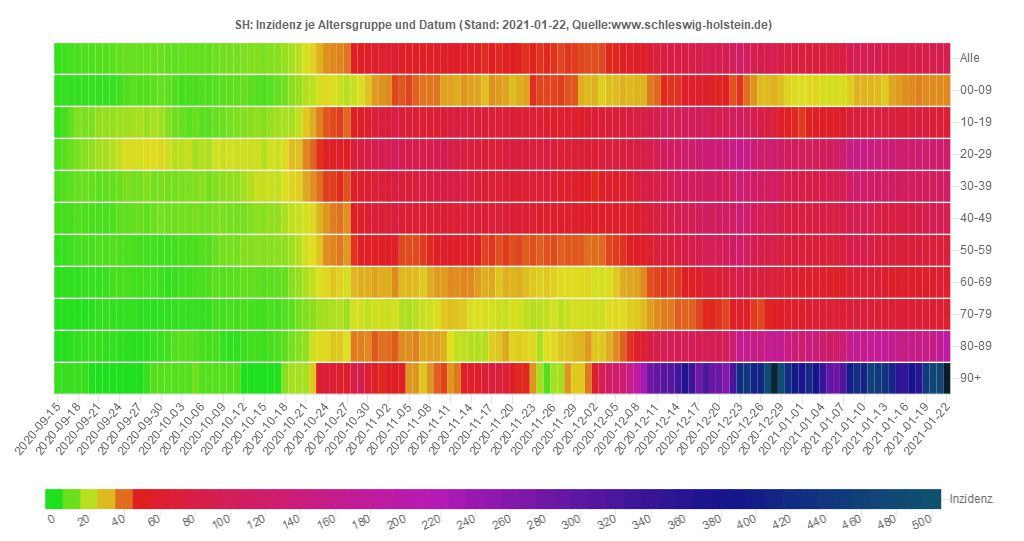
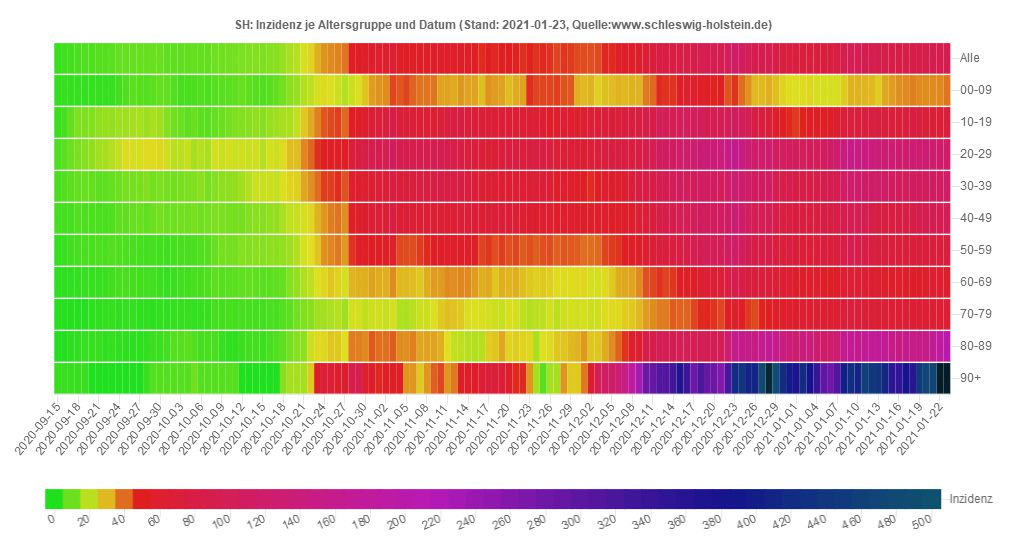
23.01.2021 20:33:10,28

diff --git a/sh/Data_SH.js b/sh/Data_SH.js
@@ -1,20 +1,20 @@
 var chdata={
-labels: ["2020-09-22","2020-09-23","2020-09-24","2020-09-25","2020-09-26","2020-09-27","2020-09-28","2020-09-29","2020-09-30","2020-10-01","2020-10-02","2020-10-03","2020-10-04","2020-10-05","2020-10-06","2020-10-07","2020-10-08","2020-10-09","2020-10-10","2020-10-11","2020-10-12","2020-10-13","2020-10-14","2020-10-15","2020-10-16","2020-10-17","2020-10-18","2020-10-19","2020-10-20","2020-10-21","2020-10-22","2020-10-23","2020-10-24","2020-10-25","2020-10-26","2020-10-27","2020-10-28","2020-10-29","2020-10-30","2020-10-31","2020-11-01","2020-11-02","2020-11-03","2020-11-04","2020-11-05","2020-11-06","2020-11-07","2020-11-08","2020-11-09","2020-11-10","2020-11-11","2020-11-12","2020-11-13","2020-11-14","2020-11-15","2020-11-16","2020-11-17","2020-11-18","2020-11-19","2020-11-20","2020-11-21","2020-11-22","2020-11-23","2020-11-24","2020-11-25","2020-11-26","2020-11-27","2020-11-28","2020-11-29","2020-11-30","2020-12-01","2020-12-02","2020-12-03","2020-12-04","2020-12-05","2020-12-06","2020-12-07","2020-12-08","2020-12-09","2020-12-10","2020-12-11","2020-12-12","2020-12-13","2020-12-14","2020-12-15","2020-12-16","2020-12-17","2020-12-18","2020-12-19","2020-12-20","2020-12-21","2020-12-22","2020-12-23","2020-12-24","2020-12-25","2020-12-26","2020-12-27","2020-12-28","2020-12-29","2020-12-30","2020-12-31","2021-01-01","2021-01-02","2021-01-03","2021-01-04","2021-01-05","2021-01-06","2021-01-07","2021-01-08","2021-01-09","2021-01-10","2021-01-11","2021-01-12","2021-01-13","2021-01-14","2021-01-15","2021-01-16","2021-01-17","2021-01-18","2021-01-19","2021-01-20","2021-01-21","2021-01-22"],
+labels: ["2020-09-22","2020-09-23","2020-09-24","2020-09-25","2020-09-26","2020-09-27","2020-09-28","2020-09-29","2020-09-30","2020-10-01","2020-10-02","2020-10-03","2020-10-04","2020-10-05","2020-10-06","2020-10-07","2020-10-08","2020-10-09","2020-10-10","2020-10-11","2020-10-12","2020-10-13","2020-10-14","2020-10-15","2020-10-16","2020-10-17","2020-10-18","2020-10-19","2020-10-20","2020-10-21","2020-10-22","2020-10-23","2020-10-24","2020-10-25","2020-10-26","2020-10-27","2020-10-28","2020-10-29","2020-10-30","2020-10-31","2020-11-01","2020-11-02","2020-11-03","2020-11-04","2020-11-05","2020-11-06","2020-11-07","2020-11-08","2020-11-09","2020-11-10","2020-11-11","2020-11-12","2020-11-13","2020-11-14","2020-11-15","2020-11-16","2020-11-17","2020-11-18","2020-11-19","2020-11-20","2020-11-21","2020-11-22","2020-11-23","2020-11-24","2020-11-25","2020-11-26","2020-11-27","2020-11-28","2020-11-29","2020-11-30","2020-12-01","2020-12-02","2020-12-03","2020-12-04","2020-12-05","2020-12-06","2020-12-07","2020-12-08","2020-12-09","2020-12-10","2020-12-11","2020-12-12","2020-12-13","2020-12-14","2020-12-15","2020-12-16","2020-12-17","2020-12-18","2020-12-19","2020-12-20","2020-12-21","2020-12-22","2020-12-23","2020-12-24","2020-12-25","2020-12-26","2020-12-27","2020-12-28","2020-12-29","2020-12-30","2020-12-31","2021-01-01","2021-01-02","2021-01-03","2021-01-04","2021-01-05","2021-01-06","2021-01-07","2021-01-08","2021-01-09","2021-01-10","2021-01-11","2021-01-12","2021-01-13","2021-01-14","2021-01-15","2021-01-16","2021-01-17","2021-01-18","2021-01-19","2021-01-20","2021-01-21","2021-01-22","2021-01-23"],
 datasets: [
 {label: 'Fälle',
 type: 'bar',
 backgroundColor: window.chartColors.blue,
-data: [38,42,63,53,15,15,38,48,49,27,50,16,24,39,54,45,79,54,26,25,65,65,65,55,90,26,88,163,111,160,136,236,142,115,164,164,280,215,313,265,161,142,236,262,220,274,233,177,215,252,247,192,296,158,161,100,294,208,264,250,153,121,145,251,256,225,180,219,71,81,244,240,245,318,234,122,179,356,340,443,429,444,144,210,506,522,489,553,440,193,280,589,673,366,177,201,188,268,576,466,357,135,264,203,265,542,537,482,523,408,143,261,399,491,422,417,358,202,239,468,481,505,421]},
+data: [38,42,63,53,15,15,38,48,49,27,50,16,24,39,54,45,79,54,26,25,65,65,65,55,90,26,88,163,111,160,136,236,142,115,164,164,280,215,313,265,161,142,236,262,220,274,233,177,215,252,247,192,296,158,161,100,294,208,264,250,153,121,145,251,256,225,180,219,71,81,244,240,245,318,234,122,179,356,340,443,429,444,144,210,506,522,489,553,440,193,280,589,673,366,177,201,188,268,576,466,357,135,264,203,265,542,537,482,523,408,143,261,399,491,422,417,358,202,239,468,480,506,457,442]},
 {label: '7-Tg. Inzidenz',
 type: 'line',
 fill: false,
 pointBackgroundColor: 'orange',
 borderColor: 'orange',
-data: [7.2,7.9,8.7,9.4,9.3,9.2,9.1,9.4,9.7,8.4,8.3,8.4,8.7,8.7,8.9,8.8,10.6,10.7,11.1,11.1,12.0,12.4,13.1,12.2,13.5,13.5,15.6,19.0,20.6,23.9,26.7,31.7,35.7,36.6,36.6,38.5,42.6,45.3,48.0,52.2,53.8,53.0,55.5,54.9,55.1,53.7,52.6,53.2,55.7,56.2,55.7,54.8,55.5,52.9,52.4,48.4,49.9,48.5,51.0,49.4,49.2,47.9,49.4,47.9,49.6,48.2,45.8,48.1,46.4,44.2,43.9,43.4,44.1,48.8,49.3,51.1,54.5,58.3,61.8,68.6,72.4,79.7,80.4,81.5,86.6,92.9,94.5,98.8,98.6,100.3,102.7,105.6,110.8,106.6,93.6,85.4,85.2,84.8,84.3,77.2,76.9,75.5,77.6,78.1,78.0,76.9,79.3,83.6,97.0,101.9,99.9,99.7,94.8,93.2,91.2,87.5,85.8,87.8,87.1,89.4,89.1,91.9,92.1]},
+data: [7.2,7.9,8.7,9.4,9.3,9.2,9.1,9.4,9.7,8.4,8.3,8.4,8.7,8.7,8.9,8.8,10.6,10.7,11.1,11.1,12.0,12.4,13.1,12.2,13.5,13.5,15.6,19.0,20.6,23.9,26.7,31.7,35.7,36.6,36.6,38.5,42.6,45.3,48.0,52.2,53.8,53.0,55.5,54.9,55.1,53.7,52.6,53.2,55.7,56.2,55.7,54.8,55.5,52.9,52.4,48.4,49.9,48.5,51.0,49.4,49.2,47.9,49.4,47.9,49.6,48.2,45.8,48.1,46.4,44.2,43.9,43.4,44.1,48.8,49.3,51.1,54.5,58.3,61.8,68.6,72.4,79.7,80.4,81.5,86.6,92.9,94.5,98.8,98.6,100.3,102.7,105.6,110.8,106.6,93.6,85.4,85.2,84.8,84.3,77.2,76.9,75.5,77.6,78.1,78.0,76.9,79.3,83.6,97.0,101.9,99.9,99.7,94.8,93.2,91.2,87.5,85.8,87.8,87.1,89.4,89.1,91.9,93.3,96.2]},
 {label: 'Hospitalisierung',
 type: 'bar',
 backgroundColor: window.chartColors.red,
-data: [1,2,7,1,0,0,2,1,3,1,1,0,4,3,1,1,4,2,0,3,5,1,1,2,4,0,9,10,8,9,12,7,5,6,7,7,11,10,11,6,3,9,19,20,15,15,5,7,13,15,21,13,17,8,17,13,23,10,15,9,7,7,13,16,26,19,12,14,15,10,12,8,10,14,3,5,24,13,26,20,14,12,6,26,27,16,20,18,8,13,13,43,35,23,17,21,26,25,46,33,33,20,34,32,51,58,35,46,34,30,22,45,69,51,59,52,32,37,36,51,53,47,34]},
+data: [1,2,7,1,0,0,2,1,3,1,1,0,4,3,1,1,4,2,0,3,5,1,1,2,4,0,9,10,8,9,12,7,5,6,7,7,11,10,11,6,3,9,19,20,15,15,5,7,13,15,21,13,17,8,17,13,23,10,15,9,7,7,13,16,26,19,12,14,15,10,12,8,10,14,3,5,24,13,26,20,14,12,6,26,27,16,20,18,8,13,13,43,35,23,17,21,26,25,46,33,33,20,34,32,51,58,35,46,34,30,22,45,69,51,59,52,32,37,36,51,53,47,34,33]},
 {label: 'Hosp. (∑ 14-Tg.)',
 type: 'line',
 fill: false,
@@ -22,17 +22,17 @@ hidden: true,
 borderColor: 'rgba(0,255,0,0.5)',
 borderWidth: 1.5,
 pointRadius: 0,
-data: [12,12,20,22,22,22,22,23,23,21,22,21,24,26,26,25,22,23,23,26,29,29,27,28,31,31,36,43,50,58,66,71,76,79,81,87,97,105,112,118,112,111,122,133,136,144,144,145,151,159,169,172,178,180,194,198,202,192,192,186,188,188,188,189,194,200,195,201,199,196,185,183,178,183,179,177,188,185,185,186,188,186,177,193,208,216,226,230,235,243,232,262,271,274,277,286,306,305,324,341,354,356,382,401,439,454,454,477,494,503,499,519,542,560,586,618,616,621,606,599,617,618,618]},
+data: [12,12,20,22,22,22,22,23,23,21,22,21,24,26,26,25,22,23,23,26,29,29,27,28,31,31,36,43,50,58,66,71,76,79,81,87,97,105,112,118,112,111,122,133,136,144,144,145,151,159,169,172,178,180,194,198,202,192,192,186,188,188,188,189,194,200,195,201,199,196,185,183,178,183,179,177,188,185,185,186,188,186,177,193,208,216,226,230,235,243,232,262,271,274,277,286,306,305,324,341,354,356,382,401,439,454,454,477,494,503,499,519,542,560,586,618,616,621,606,599,617,618,618,621]},
 {label: 'Aktuell im Krankenhaus',
 type: 'line',
 fill: false,
 pointBackgroundColor: 'green',
 borderColor: 'green',
-data: [6,6,6,6,6,6,6,11,11,11,11,14,14,15,15,14,14,14,13,13,18,18,18,21,24,24,24,24,31,31,31,31,51,51,58,58,58,58,58,58,58,94,110,114,119,118,124,120,126,116,113,119,112,116,116,148,145,151,141,141,141,141,155,142,122,113,118,118,118,124,114,110,109,114,114,114,131,122,128,132,133,133,133,177,181,194,201,212,236,250,275,271,267,262,262,262,262,309,318,322,346,346,376,376,390,412,376,379,364,364,364,384,362,373,382,398,426,473,454,457,457,438,447]},
+data: [6,6,6,6,6,6,6,11,11,11,11,14,14,15,15,14,14,14,13,13,18,18,18,21,24,24,24,24,31,31,31,31,51,51,58,58,58,58,58,58,58,94,110,114,119,118,124,120,126,116,113,119,112,116,116,148,145,151,141,141,141,141,155,142,122,113,118,118,118,124,114,110,109,114,114,114,131,122,128,132,133,133,133,177,181,194,201,212,236,250,275,271,267,262,262,262,262,309,318,322,346,346,376,376,390,412,376,379,364,364,364,384,362,373,382,398,426,473,454,457,457,438,447,461]},
 {label: 'Todesfälle',
 type: 'bar',
 backgroundColor: 'black',
-data: [0,0,0,0,0,0,0,1,0,0,0,0,0,0,0,0,0,0,0,0,0,1,0,0,0,0,0,0,0,0,1,0,0,3,0,0,3,4,1,0,2,6,7,2,2,6,0,1,4,3,5,0,5,1,3,5,0,2,2,2,1,0,3,4,1,3,3,1,4,2,3,1,4,1,0,1,4,2,5,7,7,1,2,2,6,7,11,3,2,0,9,15,4,3,4,7,10,18,17,14,2,9,7,3,29,22,17,6,14,11,9,15,25,15,15,24,3,1,23,16,16,18,16]},
+data: [0,0,0,0,0,0,0,1,0,0,0,0,0,0,0,0,0,0,0,0,0,1,0,0,0,0,0,0,0,0,1,0,0,3,0,0,3,4,1,0,2,6,7,2,2,6,0,1,4,3,5,0,5,1,3,5,0,2,2,2,1,0,3,4,1,3,3,1,4,2,3,1,4,1,0,1,4,2,5,7,7,1,2,2,6,7,11,3,2,0,9,15,4,3,4,7,10,18,17,14,2,9,7,3,29,22,17,6,14,11,9,15,25,15,15,24,3,1,23,16,16,18,16,3]},
 {label: 'Todesfälle je Woche',
 type: 'line',
 fill: false,
@@ -41,6 +41,6 @@ borderColor: 'rgba(128,128,128,1)',
 borderWidth: 2,
 pointRadius: 2,
 yAxisID: 'first-y-axis',
-data: [,,,,,0,,,,,,,1,,,,,,,0,,,,,,,1,,,,,,,4,,,,,,,10,,,,,,,24,,,,,,,21,,,,,,,12,,,,,,,19,,,,,,,12,,,,,,,28,,,,,,,31,,,,,,,52,,,,,,,70,,,,,,,108,,,,,,,98,,,,,]},
+data: [,,,,,0,,,,,,,1,,,,,,,0,,,,,,,1,,,,,,,4,,,,,,,10,,,,,,,24,,,,,,,21,,,,,,,12,,,,,,,19,,,,,,,12,,,,,,,28,,,,,,,31,,,,,,,52,,,,,,,70,,,,,,,108,,,,,,,98,,,,,,]},
 ]};
 

diff --git a/sh/Kreis_PI.js b/sh/Kreis_PI.js
@@ -1,23 +1,23 @@
 var chdata={
-labels: ["2020-09-22","2020-09-23","2020-09-24","2020-09-25","2020-09-26","2020-09-27","2020-09-28","2020-09-29","2020-09-30","2020-10-01","2020-10-02","2020-10-03","2020-10-04","2020-10-05","2020-10-06","2020-10-07","2020-10-08","2020-10-09","2020-10-10","2020-10-11","2020-10-12","2020-10-13","2020-10-14","2020-10-15","2020-10-16","2020-10-17","2020-10-18","2020-10-19","2020-10-20","2020-10-21","2020-10-22","2020-10-23","2020-10-24","2020-10-25","2020-10-26","2020-10-27","2020-10-28","2020-10-29","2020-10-30","2020-10-31","2020-11-01","2020-11-02","2020-11-03","2020-11-04","2020-11-05","2020-11-06","2020-11-07","2020-11-08","2020-11-09","2020-11-10","2020-11-11","2020-11-12","2020-11-13","2020-11-14","2020-11-15","2020-11-16","2020-11-17","2020-11-18","2020-11-19","2020-11-20","2020-11-21","2020-11-22","2020-11-23","2020-11-24","2020-11-25","2020-11-26","2020-11-27","2020-11-28","2020-11-29","2020-11-30","2020-12-01","2020-12-02","2020-12-03","2020-12-04","2020-12-05","2020-12-06","2020-12-07","2020-12-08","2020-12-09","2020-12-10","2020-12-11","2020-12-12","2020-12-13","2020-12-14","2020-12-15","2020-12-16","2020-12-17","2020-12-18","2020-12-19","2020-12-20","2020-12-21","2020-12-22","2020-12-23","2020-12-24","2020-12-25","2020-12-26","2020-12-27","2020-12-28","2020-12-29","2020-12-30","2020-12-31","2021-01-01","2021-01-02","2021-01-03","2021-01-04","2021-01-05","2021-01-06","2021-01-07","2021-01-08","2021-01-09","2021-01-10","2021-01-11","2021-01-12","2021-01-13","2021-01-14","2021-01-15","2021-01-16","2021-01-17","2021-01-18","2021-01-19","2021-01-20","2021-01-21","2021-01-22"],
+labels: ["2020-09-22","2020-09-23","2020-09-24","2020-09-25","2020-09-26","2020-09-27","2020-09-28","2020-09-29","2020-09-30","2020-10-01","2020-10-02","2020-10-03","2020-10-04","2020-10-05","2020-10-06","2020-10-07","2020-10-08","2020-10-09","2020-10-10","2020-10-11","2020-10-12","2020-10-13","2020-10-14","2020-10-15","2020-10-16","2020-10-17","2020-10-18","2020-10-19","2020-10-20","2020-10-21","2020-10-22","2020-10-23","2020-10-24","2020-10-25","2020-10-26","2020-10-27","2020-10-28","2020-10-29","2020-10-30","2020-10-31","2020-11-01","2020-11-02","2020-11-03","2020-11-04","2020-11-05","2020-11-06","2020-11-07","2020-11-08","2020-11-09","2020-11-10","2020-11-11","2020-11-12","2020-11-13","2020-11-14","2020-11-15","2020-11-16","2020-11-17","2020-11-18","2020-11-19","2020-11-20","2020-11-21","2020-11-22","2020-11-23","2020-11-24","2020-11-25","2020-11-26","2020-11-27","2020-11-28","2020-11-29","2020-11-30","2020-12-01","2020-12-02","2020-12-03","2020-12-04","2020-12-05","2020-12-06","2020-12-07","2020-12-08","2020-12-09","2020-12-10","2020-12-11","2020-12-12","2020-12-13","2020-12-14","2020-12-15","2020-12-16","2020-12-17","2020-12-18","2020-12-19","2020-12-20","2020-12-21","2020-12-22","2020-12-23","2020-12-24","2020-12-25","2020-12-26","2020-12-27","2020-12-28","2020-12-29","2020-12-30","2020-12-31","2021-01-01","2021-01-02","2021-01-03","2021-01-04","2021-01-05","2021-01-06","2021-01-07","2021-01-08","2021-01-09","2021-01-10","2021-01-11","2021-01-12","2021-01-13","2021-01-14","2021-01-15","2021-01-16","2021-01-17","2021-01-18","2021-01-19","2021-01-20","2021-01-21","2021-01-22","2021-01-23"],
 datasets: [
 {label: 'Fälle',
 type: 'bar',
 backgroundColor: window.chartColors.blue,
 yAxisID: 'first-y-axis',
-data: [7,7,2,17,0,9,3,8,10,6,6,7,4,2,7,6,7,4,8,3,11,12,17,9,3,0,36,10,12,34,0,73,34,8,10,0,27,36,60,67,0,32,26,49,42,43,45,24,7,36,47,34,28,43,18,0,51,51,49,47,42,31,55,50,68,43,0,73,18,32,47,59,40,42,0,12,34,75,37,98,53,92,19,17,79,62,92,53,113,32,41,100,121,58,56,49,20,47,118,116,82,15,36,25,28,104,77,62,132,69,38,32,93,133,71,71,70,38,50,102,93,143,101]},
+data: [7,7,2,17,0,9,3,8,10,6,6,7,4,2,7,6,7,4,8,3,11,12,17,9,3,0,36,10,12,34,0,73,34,8,10,0,27,36,60,67,0,32,26,49,42,43,45,24,7,36,47,34,28,43,18,0,51,51,49,47,42,31,55,50,68,43,0,73,18,32,47,59,40,42,0,12,34,75,37,98,53,92,19,17,79,62,92,53,113,32,41,100,121,58,56,49,20,47,118,116,82,15,36,25,28,104,77,62,132,69,38,32,93,133,71,71,70,38,50,102,92,143,105,109]},
 {label: '7-Tg. Inzidenz',
 type: 'line',
 fill: false,
 pointBackgroundColor: 'orange',
 borderColor: 'orange',
 yAxisID: 'first-y-axis',
-data: [10.4,12.0,11.4,14.5,12.0104175,14.2,14.2,14.5,15.5,16.8,13.3,15.5,13.9,13.6,13.3,12.0,12.3,11.7,12.0,11.7,14.5,16.1,19.6,20.2,19.9,17.383499,27.8,27.5,27.5,32.9,30.0260436,52.2,62.9,54.0,54.0,50.2541151,48.0,59.4,55.3,65.7,63.2127235,70.2,78.4,85.3,87.2,81.9,74.9,82.5,74.6,77.8,77.1,74.6,69.9,69.2,67.3,65.1091052,69.9,71.1,75.9,81.9,81.5,85.7,103.0,102.7,108.1,106.2,91.3423854,101.1,97.0,89.8,88.8,86.0,85.0,98.3,75.2231409,73.3,74.0,82.8,75.9,94.2,97.7,126.7,129.0,123.6,124.8,132.7,130.9,130.9,137.5,141.6,149.2,155.8,174.5,163.7,164.7,144.4,140.6,142.5,148.2,146.7,154.2,141.3,137.2,138.8,132.7,128.3,116.0,109.7,146.7,157.1,161.2,162.5,159.0,176.7,179.5,160.2,160.6,160.6,166.2,169.1,156.5,179.2,188.9]},
+data: [10.4,12.0,11.4,14.5,12.0104175,14.2,14.2,14.5,15.5,16.8,13.3,15.5,13.9,13.6,13.3,12.0,12.3,11.7,12.0,11.7,14.5,16.1,19.6,20.2,19.9,17.383499,27.8,27.5,27.5,32.9,30.0260436,52.2,62.9,54.0,54.0,50.2541151,48.0,59.4,55.3,65.7,63.2127235,70.2,78.4,85.3,87.2,81.9,74.9,82.5,74.6,77.8,77.1,74.6,69.9,69.2,67.3,65.1091052,69.9,71.1,75.9,81.9,81.5,85.7,103.0,102.7,108.1,106.2,91.3423854,101.1,97.0,89.8,88.8,86.0,85.0,98.3,75.2231409,73.3,74.0,82.8,75.9,94.2,97.7,126.7,129.0,123.6,124.8,132.7,130.9,130.9,137.5,141.6,149.2,155.8,174.5,163.7,164.7,144.4,140.6,142.5,148.2,146.7,154.2,141.3,137.2,138.8,132.7,128.3,116.0,109.7,146.7,157.1,161.2,162.5,159.0,176.7,179.5,160.2,160.6,160.6,166.2,169.1,156.1,178.9,189.6,202.1]},
 {label: 'Hospitalisierung',
 type: 'bar',
 backgroundColor: window.chartColors.red,
 yAxisID: 'first-y-axis',
-data: [0,0,0,0,0,0,1,1,0,0,0,0,1,1,1,-1,2,0,0,0,0,0,0,0,0,0,3,2,0,1,0,5,0,1,1,0,1,2,5,2,0,2,1,2,5,3,0,0,3,4,2,3,3,1,1,0,6,1,2,2,2,0,1,2,6,4,0,6,4,4,3,3,2,5,0,2,4,1,6,7,4,1,0,9,5,0,7,0,0,0,0,25,8,6,2,3,3,5,15,9,4,6,10,3,4,8,13,13,6,3,4,0,26,12,8,7,6,2,2,13,7,11,12]},
+data: [0,0,0,0,0,0,1,1,0,0,0,0,1,1,1,-1,2,0,0,0,0,0,0,0,0,0,3,2,0,1,0,5,0,1,1,0,1,2,5,2,0,2,1,2,5,3,0,0,3,4,2,3,3,1,1,0,6,1,2,2,2,0,1,2,6,4,0,6,4,4,3,3,2,5,0,2,4,1,6,7,4,1,0,9,5,0,7,0,0,0,0,25,8,6,2,3,3,5,15,9,4,6,10,3,4,8,13,13,6,3,4,0,26,12,8,7,6,2,2,13,7,11,12,2]},
 {label: 'Hospitalisierung (∑ 14-Tg.)',
 type: 'line',
 pointRadius: 0,
@@ -25,12 +25,12 @@ fill: false,
 borderColor: 'rgba(0,128,0,0.5)',
 borderWidth: 2,
 yAxisID: 'first-y-axis',
-data: [2,2,2,2,2,2,3,4,3,2,2,2,3,4,5,4,6,6,6,6,5,4,4,4,4,4,6,7,6,8,6,11,11,12,13,13,14,16,21,23,20,20,21,22,27,25,25,24,26,30,31,32,30,29,30,28,33,32,29,28,30,30,28,26,30,31,28,33,36,40,37,39,39,42,40,42,45,44,44,47,51,46,42,47,49,46,51,46,46,44,40,64,66,65,63,65,68,64,74,83,80,86,96,99,103,86,91,98,102,102,103,98,109,112,116,117,113,112,110,115,109,107,113]},
+data: [2,2,2,2,2,2,3,4,3,2,2,2,3,4,5,4,6,6,6,6,5,4,4,4,4,4,6,7,6,8,6,11,11,12,13,13,14,16,21,23,20,20,21,22,27,25,25,24,26,30,31,32,30,29,30,28,33,32,29,28,30,30,28,26,30,31,28,33,36,40,37,39,39,42,40,42,45,44,44,47,51,46,42,47,49,46,51,46,46,44,40,64,66,65,63,65,68,64,74,83,80,86,96,99,103,86,91,98,102,102,103,98,109,112,116,117,113,112,110,115,109,107,113,112]},
 {label: 'Todesfälle',
 type: 'bar',
 backgroundColor: 'black',
 yAxisID: 'first-y-axis',
-data: [0,0,0,0,0,0,0,0,0,0,0,0,0,0,0,0,0,0,0,0,0,0,0,0,0,0,0,0,0,0,0,0,0,0,0,0,1,0,0,0,0,0,0,0,0,0,0,0,0,1,0,0,0,0,0,0,0,0,0,0,0,0,0,0,0,1,0,1,0,2,0,0,2,1,0,0,0,1,0,2,1,0,0,0,1,0,7,0,0,0,0,4,0,0,2,0,2,3,4,3,0,6,0,2,10,4,5,1,2,5,1,0,7,2,5,6,1,0,5,2,1,5,7]},
+data: [0,0,0,0,0,0,0,0,0,0,0,0,0,0,0,0,0,0,0,0,0,0,0,0,0,0,0,0,0,0,0,0,0,0,0,0,1,0,0,0,0,0,0,0,0,0,0,0,0,1,0,0,0,0,0,0,0,0,0,0,0,0,0,0,0,1,0,1,0,2,0,0,2,1,0,0,0,1,0,2,1,0,0,0,1,0,7,0,0,0,0,4,0,0,2,0,2,3,4,3,0,6,0,2,10,4,5,1,2,5,1,0,7,2,5,6,1,0,5,2,1,5,7,1]},
 {label: 'Todesfälle je Woche',
 type: 'line',
 fill: false,
@@ -39,6 +39,6 @@ borderColor: 'rgba(128,128,128,1)',
 borderWidth: 2,
 pointRadius: 2,
 yAxisID: 'first-y-axis',
-data: [,,,,,0,,,,,,,0,,,,,,,0,,,,,,,0,,,,,,,0,,,,,,,1,,,,,,,0,,,,,,,1,,,,,,,0,,,,,,,2,,,,,,,5,,,,,,,4,,,,,,,8,,,,,,,8,,,,,,,18,,,,,,,28,,,,,,,21,,,,,]},
+data: [,,,,,0,,,,,,,0,,,,,,,0,,,,,,,0,,,,,,,0,,,,,,,1,,,,,,,0,,,,,,,1,,,,,,,0,,,,,,,2,,,,,,,5,,,,,,,4,,,,,,,8,,,,,,,8,,,,,,,18,,,,,,,28,,,,,,,21,,,,,,]},
 ]};
 

diff --git a/sh/Data_SH_Alter.js b/sh/Data_SH_Alter.js
@@ -133,7 +133,8 @@ var chdata={
 				{x: '2021-01-19', y: 'Alle', v: 88.5399788, casesum: 2571},{x: '2021-01-19', y: '00-09', v: 35.8364301, casesum: 92},{x: '2021-01-19', y: '10-19', v: 76.0850268, casesum: 210},{x: '2021-01-19', y: '20-29', v: 125.014846, casesum: 400},{x: '2021-01-19', y: '30-39', v: 108.602186, casesum: 365},{x: '2021-01-19', y: '40-49', v: 92.4893538, casesum: 326},{x: '2021-01-19', y: '50-59', v: 72.4665473, casesum: 359},{x: '2021-01-19', y: '60-69', v: 58.8672187, casesum: 214},{x: '2021-01-19', y: '70-79', v: 66.9074886, casesum: 198},{x: '2021-01-19', y: '80-89', v: 155.444471, casesum: 278},{x: '2021-01-19', y: '90+', v: 447.667962, casesum: 129},
 				{x: '2021-01-20', y: 'Alle', v: 88.0578475, casesum: 2557},{x: '2021-01-20', y: '00-09', v: 35.8364301, casesum: 92},{x: '2021-01-20', y: '10-19', v: 71.0126917, casesum: 196},{x: '2021-01-20', y: '20-29', v: 127.82768, casesum: 409},{x: '2021-01-20', y: '30-39', v: 107.114485, casesum: 360},{x: '2021-01-20', y: '40-49', v: 94.4753215, casesum: 333},{x: '2021-01-20', y: '50-59', v: 72.2646906, casesum: 358},{x: '2021-01-20', y: '60-69', v: 58.3170577, casesum: 212},{x: '2021-01-20', y: '70-79', v: 63.1904059, casesum: 187},{x: '2021-01-20', y: '80-89', v: 152.648707, casesum: 273},{x: '2021-01-20', y: '90+', v: 475.430316, casesum: 137},
 				{x: '2021-01-21', y: 'Alle', v: 91.9148983, casesum: 2669},{x: '2021-01-21', y: '00-09', v: 35.8364301, casesum: 92},{x: '2021-01-21', y: '10-19', v: 69.2011434, casesum: 191},{x: '2021-01-21', y: '20-29', v: 124.389771, casesum: 398},{x: '2021-01-21', y: '30-39', v: 115.743151, casesum: 389},{x: '2021-01-21', y: '40-49', v: 99.0146763, casesum: 349},{x: '2021-01-21', y: '50-59', v: 76.5036809, casesum: 379},{x: '2021-01-21', y: '60-69', v: 62.9934256, casesum: 229},{x: '2021-01-21', y: '70-79', v: 68.259155, casesum: 202},{x: '2021-01-21', y: '80-89', v: 170.541595, casesum: 305},{x: '2021-01-21', y: '90+', v: 468.489728, casesum: 135},
-				{x: '2021-01-22', y: 'Alle', v: 90.9850736, casesum: 2642},{x: '2021-01-22', y: '00-09', v: 36.2259565, casesum: 93},{x: '2021-01-22', y: '10-19', v: 68.1142145, casesum: 188},{x: '2021-01-22', y: '20-29', v: 119.389177, casesum: 382},{x: '2021-01-22', y: '30-39', v: 111.875128, casesum: 376},{x: '2021-01-22', y: '40-49', v: 93.9079022, casesum: 331},{x: '2021-01-22', y: '50-59', v: 74.8888274, casesum: 371},{x: '2021-01-22', y: '60-69', v: 60.5177014, casesum: 220},{x: '2021-01-22', y: '70-79', v: 64.2041557, casesum: 190},{x: '2021-01-22', y: '80-89', v: 186.197873, casesum: 333},{x: '2021-01-22', y: '90+', v: 548.306496, casesum: 158}
+				{x: '2021-01-22', y: 'Alle', v: 90.9850736, casesum: 2642},{x: '2021-01-22', y: '00-09', v: 36.2259565, casesum: 93},{x: '2021-01-22', y: '10-19', v: 68.1142145, casesum: 188},{x: '2021-01-22', y: '20-29', v: 119.389177, casesum: 382},{x: '2021-01-22', y: '30-39', v: 111.875128, casesum: 376},{x: '2021-01-22', y: '40-49', v: 93.9079022, casesum: 331},{x: '2021-01-22', y: '50-59', v: 74.8888274, casesum: 371},{x: '2021-01-22', y: '60-69', v: 60.5177014, casesum: 220},{x: '2021-01-22', y: '70-79', v: 64.2041557, casesum: 190},{x: '2021-01-22', y: '80-89', v: 186.197873, casesum: 333},{x: '2021-01-22', y: '90+', v: 548.306496, casesum: 158},
+				{x: '2021-01-23', y: 'Alle', v: 94.5666207, casesum: 2746},{x: '2021-01-23', y: '00-09', v: 38.563115, casesum: 99},{x: '2021-01-23', y: '10-19', v: 74.9980979, casesum: 207},{x: '2021-01-23', y: '20-29', v: 118.139029, casesum: 378},{x: '2021-01-23', y: '30-39', v: 113.95791, casesum: 383},{x: '2021-01-23', y: '40-49', v: 99.298386, casesum: 350},{x: '2021-01-23', y: '50-59', v: 78.320391, casesum: 388},{x: '2021-01-23', y: '60-69', v: 62.1681842, casesum: 226},{x: '2021-01-23', y: '70-79', v: 65.8937387, casesum: 195},{x: '2021-01-23', y: '80-89', v: 202.972456, casesum: 363},{x: '2021-01-23', y: '90+', v: 544.836202, casesum: 157}
 			],
 			backgroundColor: function(context) {
 				return inzColor(context.dataset.data[context.dataIndex].v)
@@ -141,7 +142,7 @@ var chdata={
 			width: function(context) {
 				const a = context.chart.chartArea
 				if (!a) return 0
-				return (a.right - a.left) / 130.5
+				return (a.right - a.left) / 131.5
 			},
 			height: function(context) {
 				const a = context.chart.chartArea
@@ -153,7 +154,7 @@ var chdata={
 	options: {
 		legend: { display: false },
 		scales: {
-			xAxes: [{type: 'category', labels: ["2020-09-15","2020-09-16","2020-09-17","2020-09-18","2020-09-19","2020-09-20","2020-09-21","2020-09-22","2020-09-23","2020-09-24","2020-09-25","2020-09-26","2020-09-27","2020-09-28","2020-09-29","2020-09-30","2020-10-01","2020-10-02","2020-10-03","2020-10-04","2020-10-05","2020-10-06","2020-10-07","2020-10-08","2020-10-09","2020-10-10","2020-10-11","2020-10-12","2020-10-13","2020-10-14","2020-10-15","2020-10-16","2020-10-17","2020-10-18","2020-10-19","2020-10-20","2020-10-21","2020-10-22","2020-10-23","2020-10-24","2020-10-25","2020-10-26","2020-10-27","2020-10-28","2020-10-29","2020-10-30","2020-10-31","2020-11-01","2020-11-02","2020-11-03","2020-11-04","2020-11-05","2020-11-06","2020-11-07","2020-11-08","2020-11-09","2020-11-10","2020-11-11","2020-11-12","2020-11-13","2020-11-14","2020-11-15","2020-11-16","2020-11-17","2020-11-18","2020-11-19","2020-11-20","2020-11-21","2020-11-22","2020-11-23","2020-11-24","2020-11-25","2020-11-26","2020-11-27","2020-11-28","2020-11-29","2020-11-30","2020-12-01","2020-12-02","2020-12-03","2020-12-04","2020-12-05","2020-12-06","2020-12-07","2020-12-08","2020-12-09","2020-12-10","2020-12-11","2020-12-12","2020-12-13","2020-12-14","2020-12-15","2020-12-16","2020-12-17","2020-12-18","2020-12-19","2020-12-20","2020-12-21","2020-12-22","2020-12-23","2020-12-24","2020-12-25","2020-12-26","2020-12-27","2020-12-28","2020-12-29","2020-12-30","2020-12-31","2021-01-01","2021-01-02","2021-01-03","2021-01-04","2021-01-05","2021-01-06","2021-01-07","2021-01-08","2021-01-09","2021-01-10","2021-01-11","2021-01-12","2021-01-13","2021-01-14","2021-01-15","2021-01-16","2021-01-17","2021-01-18","2021-01-19","2021-01-20","2021-01-21","2021-01-22",], ticks: {display: true},gridlines:{display:false}}],
+			xAxes: [{type: 'category', labels: ["2020-09-15","2020-09-16","2020-09-17","2020-09-18","2020-09-19","2020-09-20","2020-09-21","2020-09-22","2020-09-23","2020-09-24","2020-09-25","2020-09-26","2020-09-27","2020-09-28","2020-09-29","2020-09-30","2020-10-01","2020-10-02","2020-10-03","2020-10-04","2020-10-05","2020-10-06","2020-10-07","2020-10-08","2020-10-09","2020-10-10","2020-10-11","2020-10-12","2020-10-13","2020-10-14","2020-10-15","2020-10-16","2020-10-17","2020-10-18","2020-10-19","2020-10-20","2020-10-21","2020-10-22","2020-10-23","2020-10-24","2020-10-25","2020-10-26","2020-10-27","2020-10-28","2020-10-29","2020-10-30","2020-10-31","2020-11-01","2020-11-02","2020-11-03","2020-11-04","2020-11-05","2020-11-06","2020-11-07","2020-11-08","2020-11-09","2020-11-10","2020-11-11","2020-11-12","2020-11-13","2020-11-14","2020-11-15","2020-11-16","2020-11-17","2020-11-18","2020-11-19","2020-11-20","2020-11-21","2020-11-22","2020-11-23","2020-11-24","2020-11-25","2020-11-26","2020-11-27","2020-11-28","2020-11-29","2020-11-30","2020-12-01","2020-12-02","2020-12-03","2020-12-04","2020-12-05","2020-12-06","2020-12-07","2020-12-08","2020-12-09","2020-12-10","2020-12-11","2020-12-12","2020-12-13","2020-12-14","2020-12-15","2020-12-16","2020-12-17","2020-12-18","2020-12-19","2020-12-20","2020-12-21","2020-12-22","2020-12-23","2020-12-24","2020-12-25","2020-12-26","2020-12-27","2020-12-28","2020-12-29","2020-12-30","2020-12-31","2021-01-01","2021-01-02","2021-01-03","2021-01-04","2021-01-05","2021-01-06","2021-01-07","2021-01-08","2021-01-09","2021-01-10","2021-01-11","2021-01-12","2021-01-13","2021-01-14","2021-01-15","2021-01-16","2021-01-17","2021-01-18","2021-01-19","2021-01-20","2021-01-21","2021-01-22","2021-01-23",], ticks: {display: true},gridlines:{display:false}}],
 			yAxes: [{type: 'category', labels: ["Alle","00-09","10-19","20-29","30-39","40-49","50-59","60-69","70-79","80-89","90+"], offset:true, ticks: {display: true},gridlines:{display:false}}],
 		},
 	}

diff --git a/sh/index_sh_alter.html b/sh/index_sh_alter.html
@@ -5,7 +5,7 @@
 <meta property="og:image" content="index_sh_alter.jpg" />
 <meta property="og:type" content="website" />
 <meta property="og:locale" content="de_DE" />
-<meta property="og:updated_time" content="2021-01-23T17:02:06+01:00" />
+<meta property="og:updated_time" content="2021-01-23T20:33:09+01:00" />
 <title>Altersverteilung der COVID-19-Fälle in Schleswig-Holstein</title>
 <link rel="stylesheet" href="../css/style.css" media="screen" type="text/css">
 <link rel="stylesheet" media="screen" href="Chart.min.css"> 

diff --git a/sh/index_pi_alter.html b/sh/index_pi_alter.html
@@ -5,7 +5,7 @@
 <meta property="og:image" content="index_pi_alter.jpg" />
 <meta property="og:type" content="website" />
 <meta property="og:locale" content="de_DE" />
-<meta property="og:updated_time" content="2021-01-23T17:02:06+01:00" />
+<meta property="og:updated_time" content="2021-01-23T20:33:09+01:00" />
 <title>Altersverteilung der COVID-19-Fälle im Kreis Pinneberg</title>
 <link rel="stylesheet" href="../css/style.css" media="screen" type="text/css">
 <link rel="stylesheet" media="screen" href="Chart.min.css"> 

diff --git a/sh/index.html b/sh/index.html
@@ -5,7 +5,7 @@
 <meta property="og:image" content="index.jpg" />
 <meta property="og:type" content="website" />
 <meta property="og:locale" content="de_DE" />
-<meta property="og:updated_time" content="2021-01-23T17:02:06+01:00" />
+<meta property="og:updated_time" content="2021-01-23T20:33:09+01:00" />
 <title>COVID-19-Fälle im Kreis Pinneberg</title>
 <link rel="stylesheet" href="../css/style.css" media="screen" type="text/css">
 <link rel="stylesheet" media="screen" href="Chart.min.css"> 
